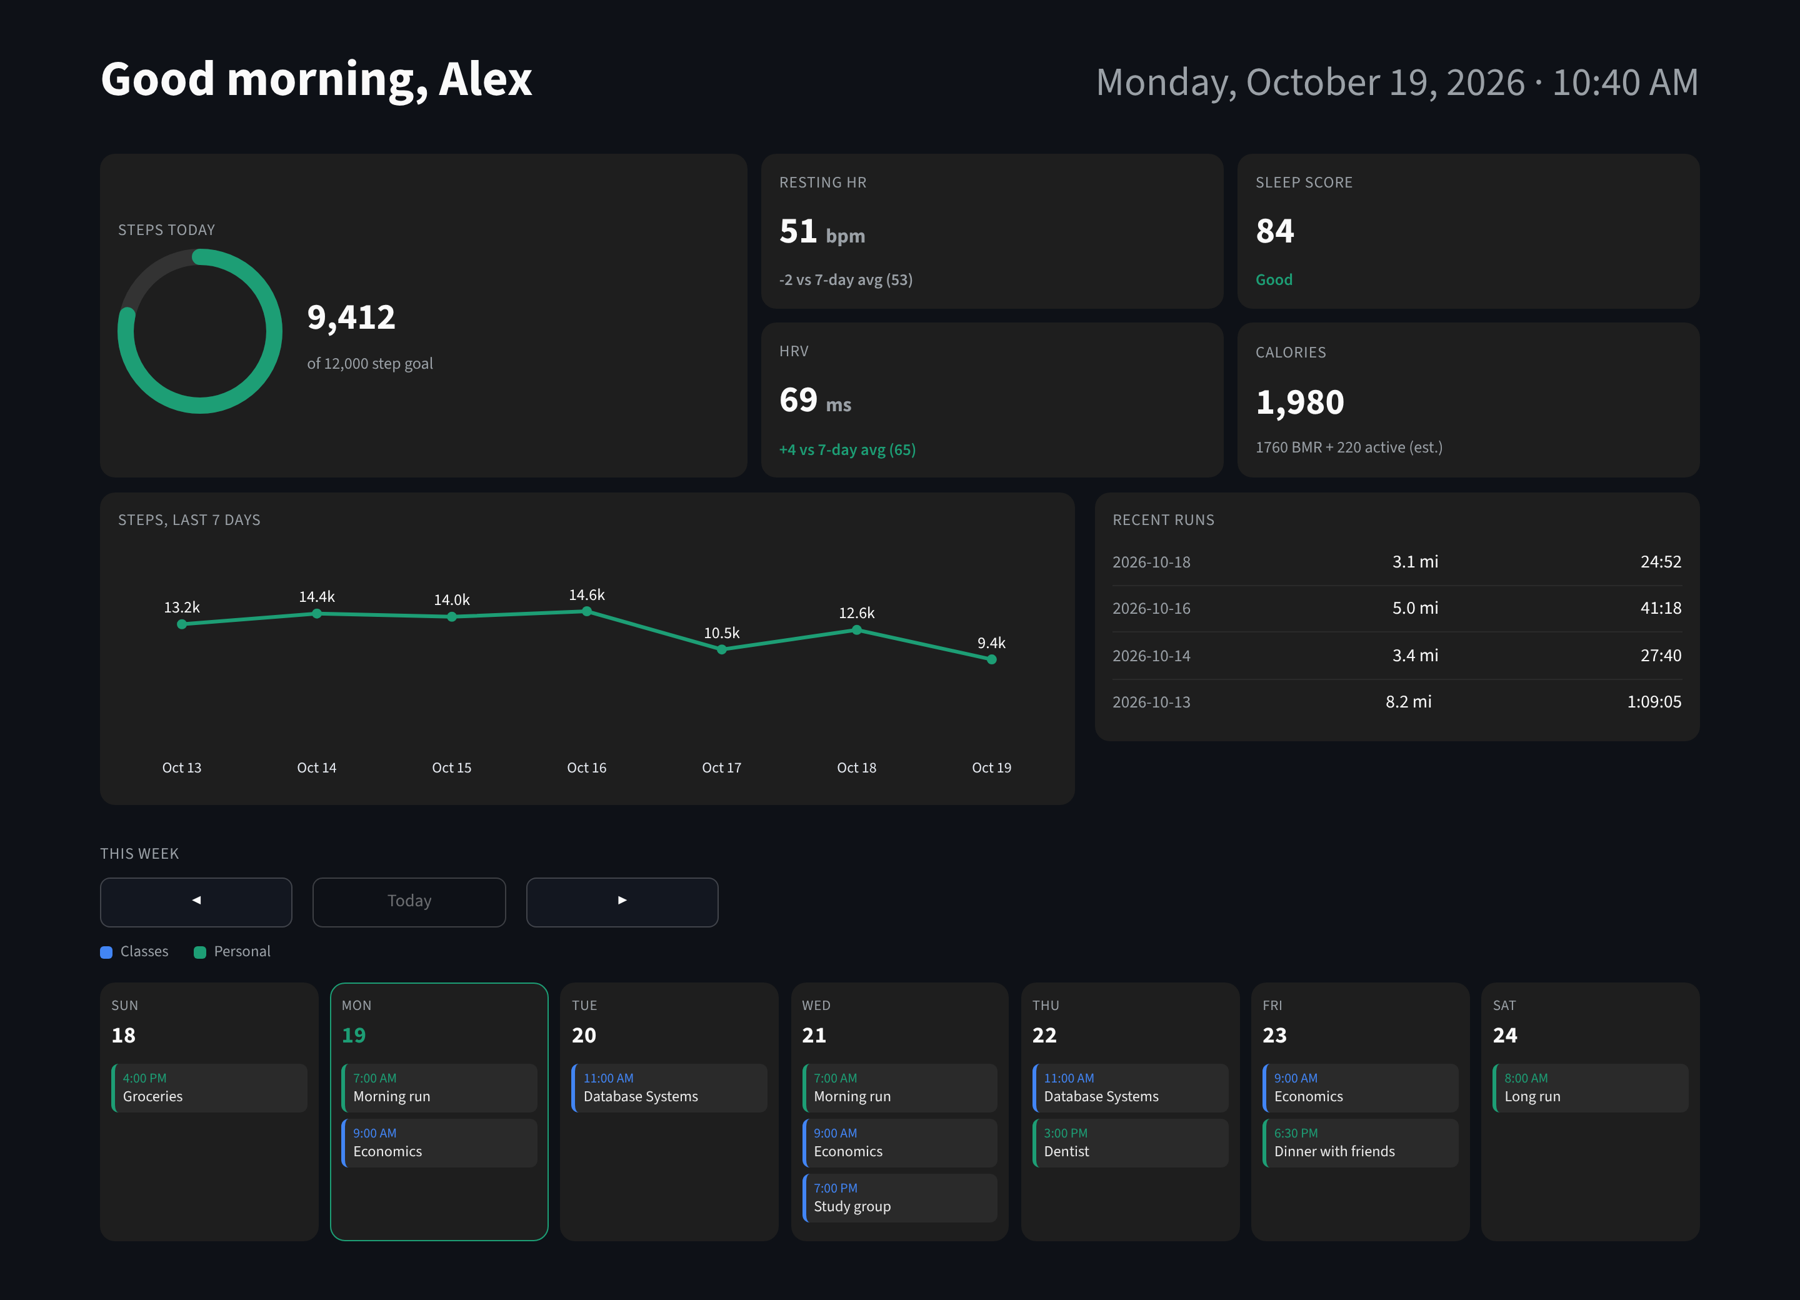
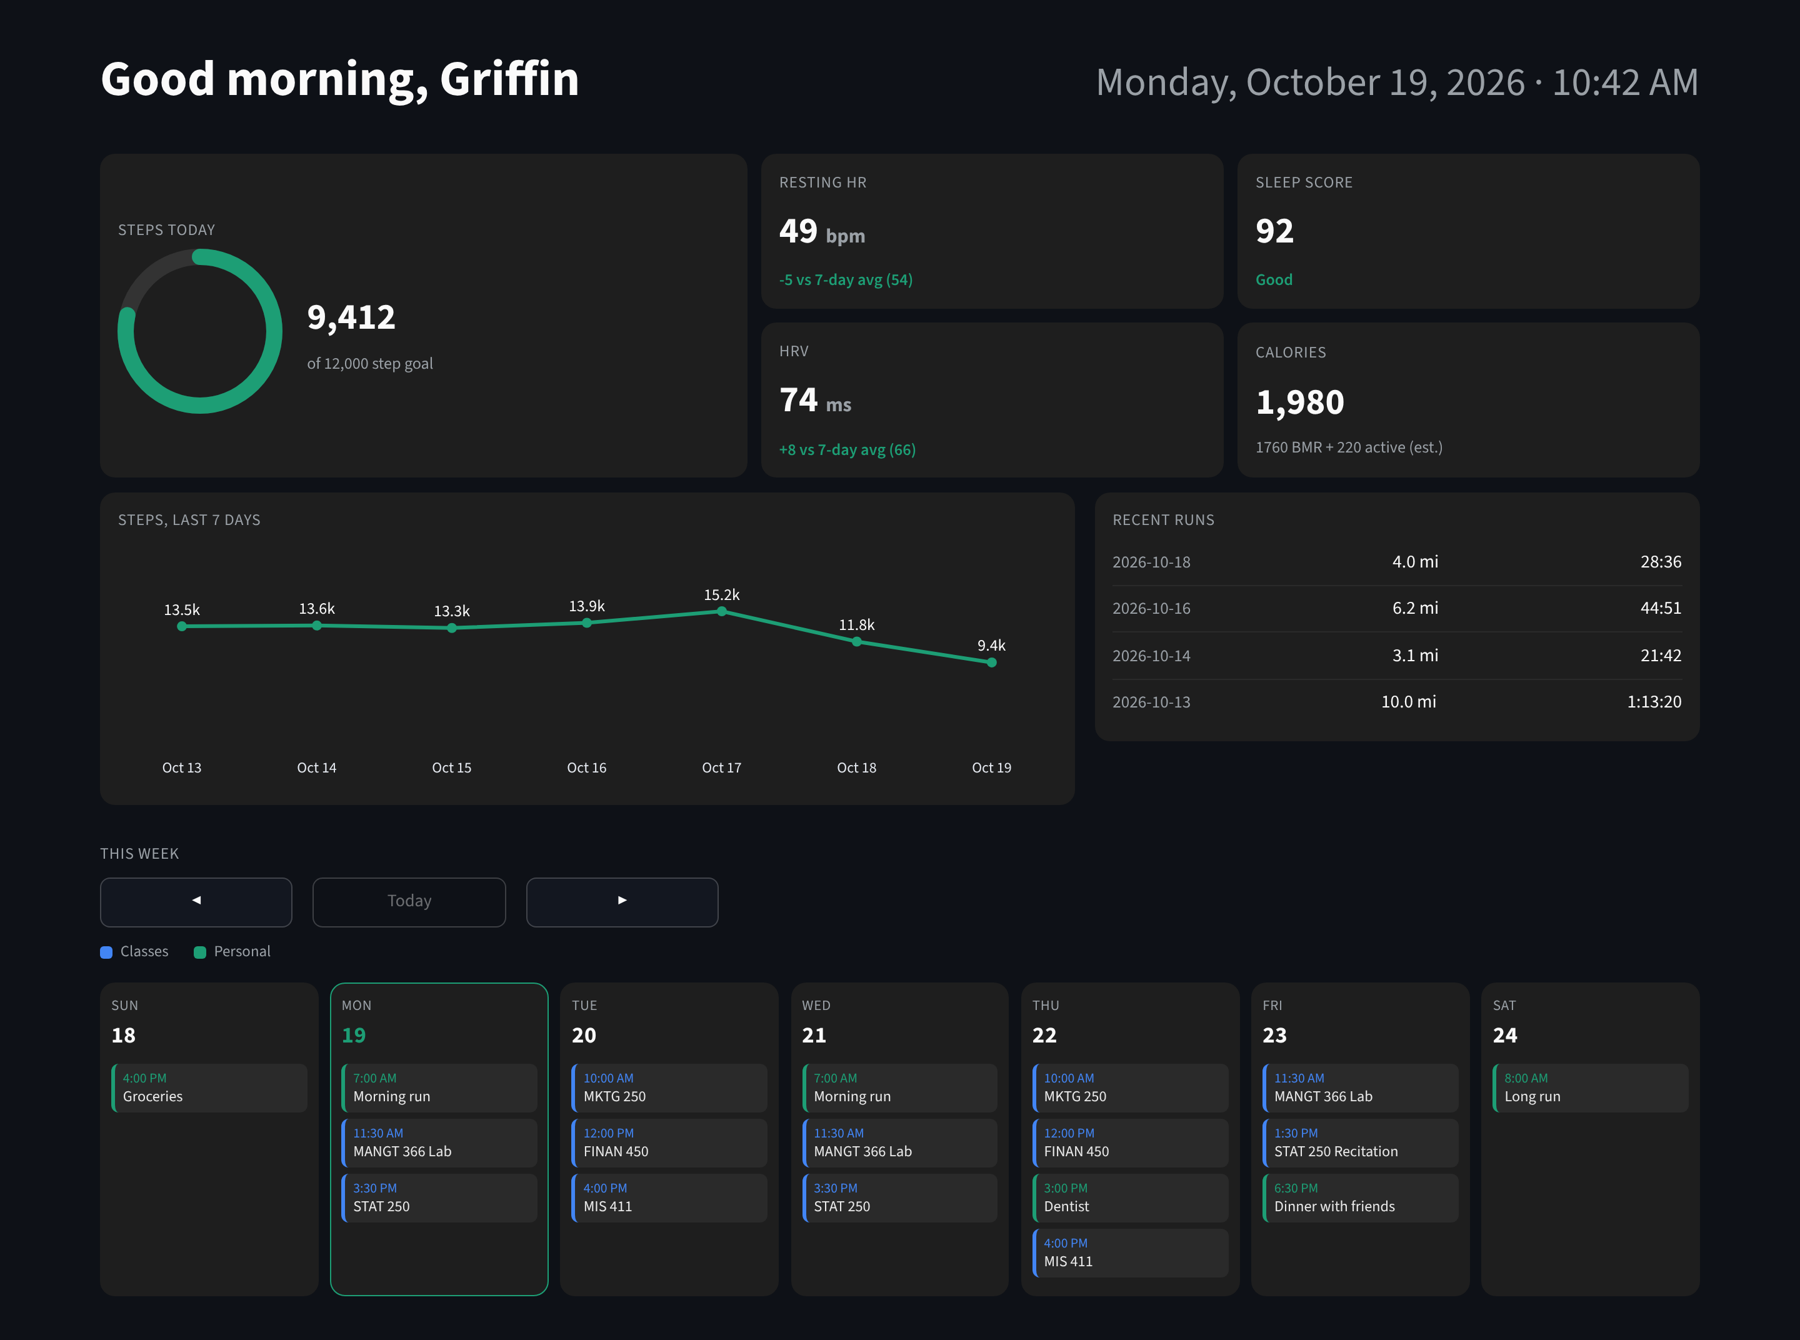
Update README screenshot
Claude-Session: https://claude.ai/code/session_014dYXZh9QdU1ASGDQ9yGEZ8

diff --git a/README.md b/README.md
@@ -4,7 +4,7 @@ A personal health dashboard that pulls daily metrics from Garmin Connect, stores
 
 ![Dashboard screenshot](docs/screenshot.png)
 
-*Shown with sample data.*
+*Health metrics shown are sample data.*
 
 ## What it shows
 
